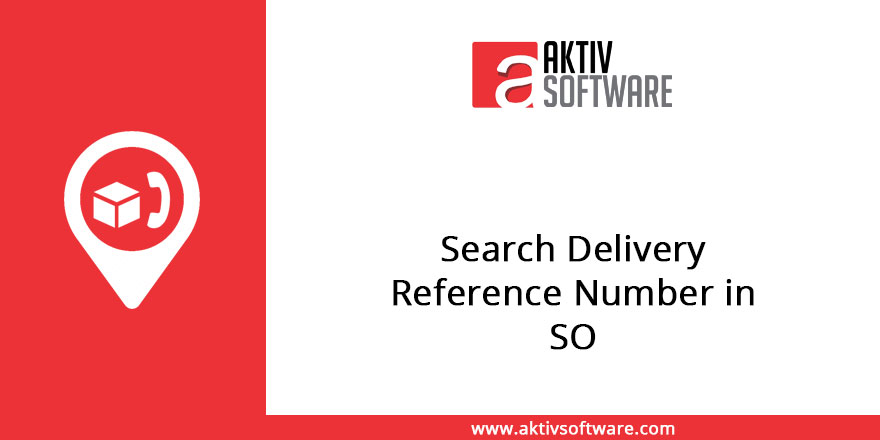
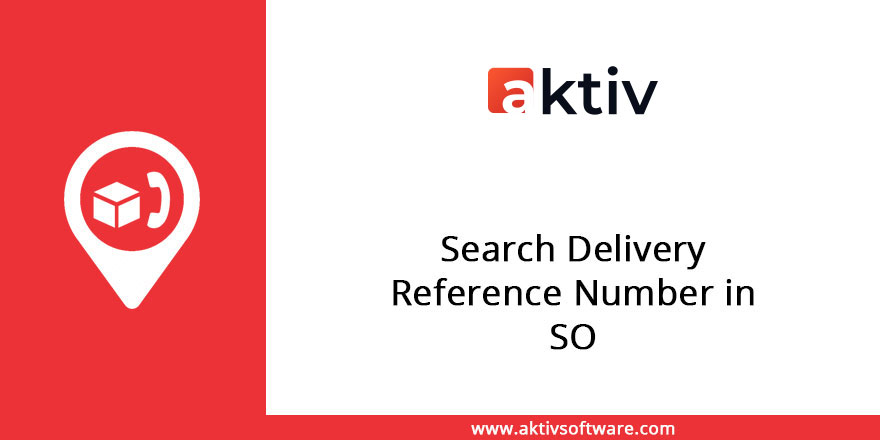
[ADD] change image in 9.0

Changed region(s): [[0.5216, 0.0886, 0.767, 0.2659]]

diff --git a/search_delivery_number_so/static/description/index.html b/search_delivery_number_so/static/description/index.html
@@ -106,7 +106,7 @@
     <div class="oe_row oe_spaced">
         <h2 class="oe_slogan">
             <a href="http://aktivsoftware.com/" target="new">
-                <img src="http://aktivsoftware.com/wp-content/uploads/2018/01/logo-1.png"/>
+                <img src="aktiv-logo.png"/>
             </a>
             <br/>
             <a href="mailto:sales@aktivsoftware.com" style="color: #000000 !important;">
